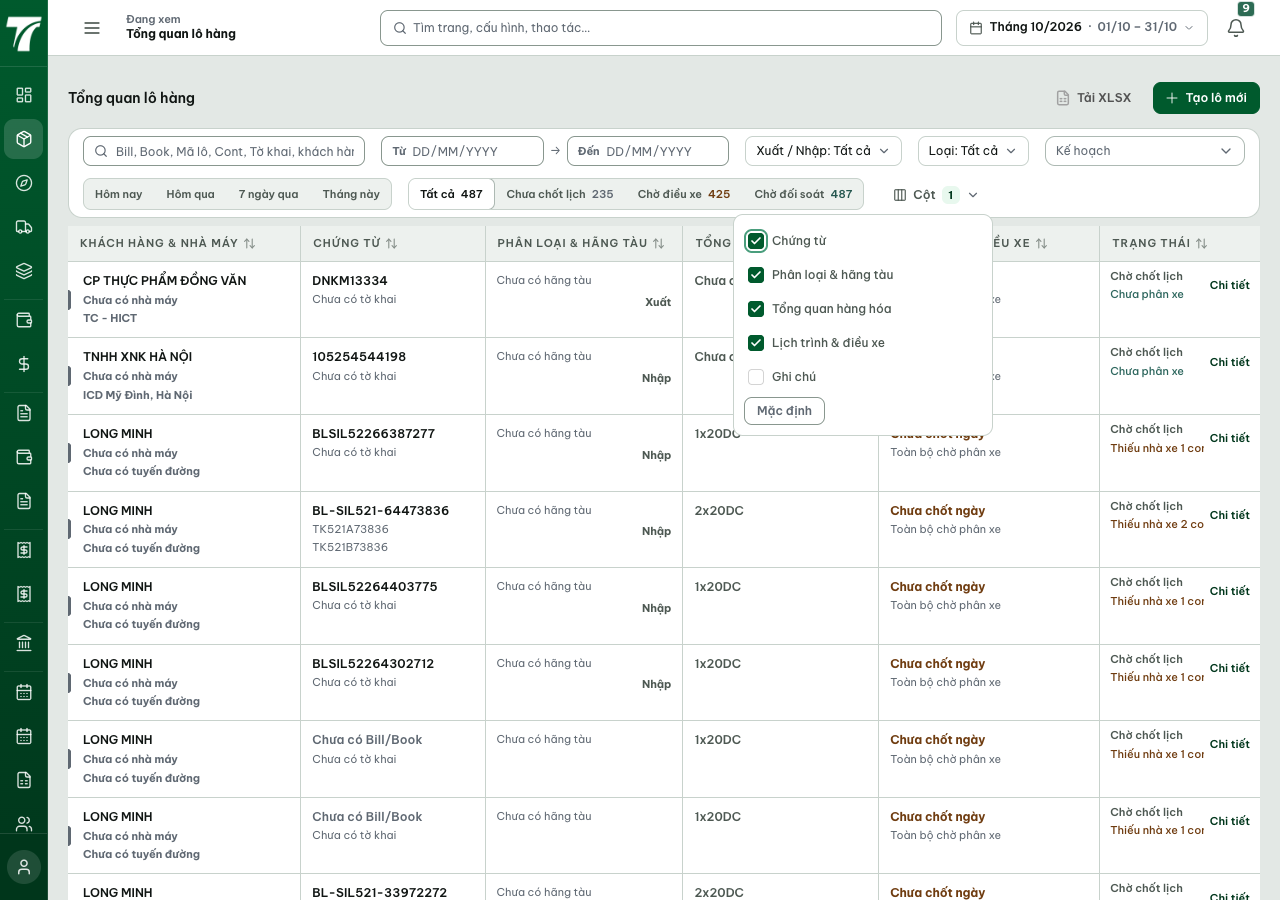
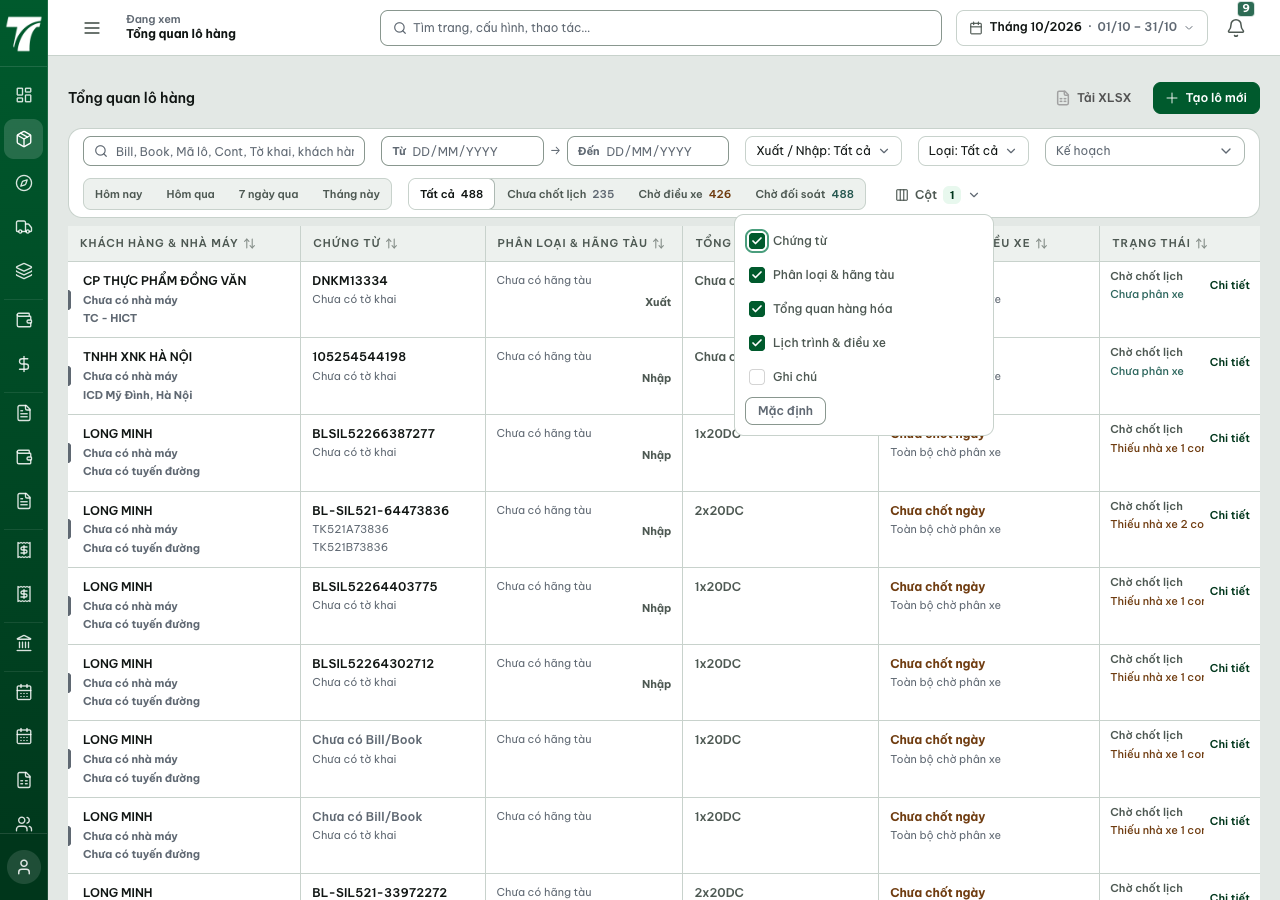
fix(a11y): SIL-561 (id 639) — nền THẬT SỰ inert khi popover-dialog mở (QA fail 29/10 'main không có aria-hidden, inert=false; chỉ vùng toast là inert'): (A) usePopoverDialog sweep rework — bỏ trigger-island exemption (chính nó giữ main sống vì trigger nằm trong main), mọi element ngoài panel path ma
QA: driver qa/scripts/ui-popover-dialog-verify-20261029.mjs (giamdoc, local :7202) 35/35 PASS — 4 popover (ColumnPicker/FilterDropdown/MonthPicker/UDRP) × aria-modal/focus-in-panel/main-inert/Escape-restores-trigger @1280/768/390; ảnh + log qa/2026-10-29_sil561_ui-*. Gates: frontend tsc -b exit 0; vitest scoped 133/133 (usePopoverDialog + layout/mobile-overlays + UDRP + ColumnPicker + FilterDropdown + FactoryDetailPopover) exit 0. Testplan case-2026-10-29-sil561-background-inert.

diff --git a/frontend/src/design-system/forms/UnifiedDateRangePicker.tsx b/frontend/src/design-system/forms/UnifiedDateRangePicker.tsx
@@ -1,8 +1,10 @@
 import { useEffect, useMemo, useRef, useState } from 'react';
+import { createPortal } from 'react-dom';
 import { Calendar, ChevronLeft, ChevronRight, X } from 'lucide-react';
 import { useClickOutside } from '../../hooks/useClickOutside';
 import { useFocusTrap } from '../../hooks/useFocusTrap';
 import { usePopoverDialog } from '../../hooks/usePopoverDialog';
+import { usePopoverPosition } from '../../hooks/usePopoverPosition';
 import type { DateRangeValue } from './DateRangeFields';
 import './UnifiedDateRangePicker.css';
 
@@ -144,13 +146,20 @@ export function UnifiedDateRangePicker({ id, value, onChange, ariaLabel, classNa
     // eslint-disable-next-line react-hooks/exhaustive-deps
   }, [open]);
 
-  useClickOutside(rootRef, () => setOpen(false), { escapeKey: true, enabled: open });
+  const triggerRef = useRef<HTMLButtonElement>(null);
+  // SIL-561 (29/10): the panel now rides a body portal (the house
+  // usePopoverPosition + useClickOutside + createPortal triple, like
+  // ColumnPicker) — an INLINE panel lives inside `main`, which can then never
+  // carry `inert` (QA fail: "main không có aria-hidden, inert=false").
+  // Outside-press semantics stay the old root-based ones: the trigger widget
+  // and the panel are the inside, everything else dismisses.
+  useClickOutside(popoverRef, () => setOpen(false), { escapeKey: true, enabled: open, additionalRefs: [triggerRef, rootRef] });
   useFocusTrap(popoverRef, open);
   // Modal dialog semantics (SIL-561): focus/Escape already worked — the
   // primitive adds aria-modal, the inert background and guaranteed focus
   // return to the trigger on every close path.
-  const triggerRef = useRef<HTMLButtonElement>(null);
   usePopoverDialog(popoverRef, triggerRef, open);
+  const popoverPosition = usePopoverPosition(popoverRef, triggerRef, open, 660, 360, 'start');
 
   const shiftAnchor = (months: number) => {
     setAnchor((v) => {
@@ -244,8 +253,15 @@ export function UnifiedDateRangePicker({ id, value, onChange, ariaLabel, classNa
         {triggerText ? <span className="udrp__value">{triggerText}</span> : <span className="udrp__placeholder">DD/MM/YYYY – DD/MM/YYYY</span>}
         <ChevronRight size={12} className="udrp__caret" aria-hidden="true" />
       </button>
-      {open && (
-        <div className="udrp__popover" role="dialog" aria-label={ariaLabel} ref={popoverRef}>
+      {open && typeof document !== 'undefined' && createPortal(
+        <div
+          className="udrp__popover"
+          role="dialog"
+          aria-label={ariaLabel}
+          ref={popoverRef}
+          data-positioned={popoverPosition ? 'true' : undefined}
+          style={{ top: popoverPosition?.top ?? 0, left: popoverPosition?.left ?? 0, maxHeight: popoverPosition?.maxHeight }}
+        >
           <div className="udrp__presets" role="group" aria-label="Khoảng nhanh">
             {UNIFIED_RANGE_PRESETS.map((preset) => (
               <button
@@ -281,7 +297,8 @@ export function UnifiedDateRangePicker({ id, value, onChange, ariaLabel, classNa
               {renderMonth(nextM0, nextY, monthTitle(nextM0, nextY))}
             </div>
           </div>
-        </div>
+        </div>,
+        document.body,
       )}
     </div>
   );

diff --git a/frontend/src/hooks/usePopoverDialog.ts b/frontend/src/hooks/usePopoverDialog.ts
@@ -122,28 +122,36 @@ export function usePopoverDialog(
       // Leg 1 — modal semantics ride the panel only while it is open.
       panel.setAttribute('aria-modal', 'true');
 
-      // Leg 3 — the rest of the page goes inert while the dialog is open.
-      // The sweep walks DOWN from <body>: a child that contains the panel (a
-      // portal target, or the app root hosting an unportaled picker) or the
-      // TRIGGER (the opener's own island — it stays clickable and is the
-      // focus-return target; a browser refuses to focus an inert element,
-      // which would break the Escape restore) is stepped into, so only the
-      // branches off that path are blocked — everything else loses pointer
-      // and keyboard reach. Portals appended later (a criterion's date
-      // picker) are never covered by the sweep and stay interactive.
+      // Leg 3 — EVERYTHING outside the panel goes inert while the dialog is
+      // open — the platform modal contract (`<dialog>.showModal()`, the
+      // shipmate accessibility reference's custom-overlay rule). The old
+      // sweep exempted the trigger's ancestor chain so Escape could restore
+      // focus to it; that kept `main` LIVE whenever the trigger lived inside
+      // it (QA fail 29/10: "main không có aria-hidden, inert=false; chỉ vùng
+      // toast là inert"). Now the background, its landmarks AND the opener's
+      // own chain all carry `inert`; a browser refuses to focus an inert
+      // element, so the close path UN-INERTS FIRST — this effect's cleanup
+      // runs before the focus-return effect's (React destroys effects in
+      // definition order) — and only then hands focus back to the trigger.
+      // Every excluded element gets the ATTRIBUTE itself (not just an inert
+      // ancestor): inheritance already covers behavior, the attribute covers
+      // the landmark probes (`main`, `header`, …) QA measures against.
+      // Nested portals appended later (a criterion's date picker) are never
+      // covered by the sweep and stay interactive.
       const previous = new Map<Element, boolean>();
-      const trigger = triggerRef.current;
+      const mark = (element: Element): void => {
+        previous.set(element, element.hasAttribute('inert'));
+        element.setAttribute('inert', '');
+      };
       const sweep = (parent: Element): void => {
         for (const child of Array.from(parent.children)) {
-          // The panel and the trigger element itself (with everything inside
-          // them) stay live; branches off their two paths are blocked.
-          if (child === panel || (trigger != null && (child === trigger || trigger.contains(child)))) continue;
-          if (child.contains(panel) || (trigger != null && child.contains(trigger))) {
+          if (child === panel) continue;
+          if (child.contains(panel)) {
             sweep(child);
             continue;
           }
-          previous.set(child, child.hasAttribute('inert'));
-          child.setAttribute('inert', '');
+          mark(child);
+          sweep(child);
         }
       };
       sweep(document.body);

diff --git a/frontend/src/hooks/usePopoverDialog.test.tsx b/frontend/src/hooks/usePopoverDialog.test.tsx
@@ -1,4 +1,5 @@
 import { useState, useRef } from 'react';
+import { createPortal } from 'react-dom';
 import { fireEvent, render, screen } from '@testing-library/react';
 import { describe, expect, it } from 'vitest';
 import { usePopoverDialog } from './usePopoverDialog';
@@ -40,6 +41,45 @@ describe('usePopoverDialog modal popover semantics', () => {
     expect(dialog.contains(document.activeElement)).toBe(true);
     // The background branch is inert while the dialog claims modal semantics.
     expect(backgroundButton.closest('#background')!.hasAttribute('inert')).toBe(true);
+  });
+
+  it('SIL-561 fail 29/10: EVERY background element carries inert — main and the opener chain included', () => {
+    function PortaledHost() {
+      const [open, setOpen] = useState(false);
+      const panelRef = useRef<HTMLDivElement>(null);
+      const triggerRef = useRef<HTMLButtonElement>(null);
+      usePopoverDialog(panelRef, triggerRef, open);
+      return (
+        <main>
+          <button ref={triggerRef} onClick={() => setOpen((v) => !v)}>Mở bộ lọc</button>
+          <div id="background"><button>Nút nền</button></div>
+          {open && createPortal(
+            <div ref={panelRef} role="dialog" aria-label="Bộ lọc">
+              <button onClick={() => setOpen(false)}>Áp dụng</button>
+            </div>,
+            document.body,
+          )}
+        </main>
+      );
+    }
+    render(<PortaledHost />);
+    const trigger = screen.getByRole('button', { name: 'Mở bộ lọc' });
+    fireEvent.click(trigger);
+
+    // QA's probe reads these exact elements: `main` carried neither inert nor
+    // aria-hidden while the dialog claimed modal semantics ("chỉ vùng toast
+    // là inert" — the old sweep exempted the opener's ancestor chain).
+    expect(document.querySelector('main')!.hasAttribute('inert')).toBe(true);
+    // Platform modal semantics inert the background INCLUDING the opener;
+    // the close path un-inerts first (this hook's effect order), then
+    // restores focus — a browser refuses to focus an inert element.
+    expect(trigger.hasAttribute('inert')).toBe(true);
+
+    fireEvent.click(screen.getByRole('button', { name: 'Áp dụng' }));
+
+    expect(document.querySelector('main')!.hasAttribute('inert')).toBe(false);
+    expect(trigger.hasAttribute('inert')).toBe(false);
+    expect(document.activeElement).toBe(trigger);
   });
 
   it('restores aria-modal + background and hands focus back to the trigger on close', () => {

diff --git a/frontend/src/components/layout/mobile-overlays.focus-return.test.tsx b/frontend/src/components/layout/mobile-overlays.focus-return.test.tsx
@@ -1,5 +1,5 @@
 import { useRef, useState } from 'react';
-import { fireEvent, render, screen } from '@testing-library/react';
+import { fireEvent, render, screen, waitFor } from '@testing-library/react';
 import { describe, expect, it, vi } from 'vitest';
 import { Role } from '@tingting/shared';
 
@@ -72,23 +72,26 @@ describe('mobile overlay focus return (SIL-573)', () => {
     expect(document.activeElement).toBe(trigger);
   });
 
-  it('returns focus to the month trigger after Escape', () => {
+  it('returns focus to the month trigger after Escape (SIL-561: one frame — the inert release lands first)', async () => {
     renderPicker();
     const trigger = screen.getByRole('button', { name: /Chọn tháng/ });
     fireEvent.click(trigger);
     expect(screen.getByRole('dialog', { name: 'Chọn tháng' })).toBeTruthy();
     fireEvent.keyDown(document, { key: 'Escape' });
     expect(screen.queryByRole('dialog', { name: 'Chọn tháng' })).toBeNull();
-    expect(document.activeElement).toBe(trigger);
+    // The restore defers past the close commit: the background un-inerts
+    // there, and a browser refuses to focus an inert trigger (the old
+    // synchronous shape dropped the keyboard to <body> — QA-measured).
+    await waitFor(() => expect(document.activeElement).toBe(trigger));
   });
 
-  it('returns focus to the month trigger after choosing a month', () => {
+  it('returns focus to the month trigger after choosing a month (SIL-561: one frame)', async () => {
     renderPicker();
     const trigger = screen.getByRole('button', { name: /Chọn tháng/ });
     fireEvent.click(trigger);
     fireEvent.click(screen.getByRole('button', { name: /T5\s*Tháng 5/ }));
     expect(screen.queryByRole('dialog', { name: 'Chọn tháng' })).toBeNull();
-    expect(document.activeElement).toBe(trigger);
+    await waitFor(() => expect(document.activeElement).toBe(trigger));
   });
 
   it('keeps focus away from the trigger when an outside press closes the picker', () => {

diff --git a/frontend/src/components/layout/Topbar.tsx b/frontend/src/components/layout/Topbar.tsx
@@ -33,12 +33,21 @@ function MonthNavigator() {
   const pickerRef = useRef<HTMLDivElement>(null);
   const triggerRef = useRef<HTMLButtonElement>(null);
 
+  // SIL-561 (29/10): every close that restores focus DEFERS one frame — the
+  // background sweep marks the trigger inert while open and un-inerts in the
+  // close commit, so a synchronous trigger.focus() is refused by the browser
+  // and the keyboard landed on <body> (QA-measured on the Escape path).
+  const closeAndRestore = () => {
+    setOpen(false);
+    requestAnimationFrame(() => restoreFocusTo(triggerRef.current));
+  };
+
   // Focus return (SIL-573): Escape and explicit close actions hand focus back
   // to the month trigger; an outside press leaves focus where the user clicked.
   useClickOutside(containerRef, () => setOpen(false), {
     escapeKey: true,
     enabled: open,
-    onEscape: () => { setOpen(false); restoreFocusTo(triggerRef.current); },
+    onEscape: closeAndRestore,
   });
   useFocusTrap(pickerRef, open);
   // Modal dialog semantics (SIL-561): the picker already trapped focus and
@@ -124,8 +133,7 @@ function MonthNavigator() {
                   ].filter(Boolean).join(' ')}
                   onClick={() => {
                     setMonthYear(m, pickerYear);
-                    setOpen(false);
-                    restoreFocusTo(triggerRef.current);
+                    closeAndRestore();
                   }}
                 >
                   <span className="month-picker__cell-code">{short}</span>
@@ -141,8 +149,7 @@ function MonthNavigator() {
               onClick={() => {
                 const n = new Date();
                 setMonthYear(n.getMonth() + 1, n.getFullYear());
-                setOpen(false);
-                restoreFocusTo(triggerRef.current);
+                closeAndRestore();
               }}
             >
               Hôm nay

diff --git a/frontend/src/design-system/forms/UnifiedDateRangePicker.css b/frontend/src/design-system/forms/UnifiedDateRangePicker.css
@@ -60,10 +60,13 @@
 /* ── Popover: preset rail (left) + dual-month calendar (right) ──────────── */
 
 .udrp__popover {
-  position: absolute;
-  top: calc(100% + 6px);
-  left: 0;
+  /* SIL-561 (29/10): body portal (ColumnPicker triple) — fixed at the
+     usePopoverPosition coords instead of absolute under the trigger, so the
+     inline panel no longer keeps `main` out of the background-inert sweep.
+     Hidden until positioned (a 0×0 trigger rect reports NO position). */
+  position: fixed;
   z-index: var(--z-nested-popover, 410);
+  visibility: hidden;
   display: flex;
   gap: 8px;
   padding: 8px;
@@ -71,6 +74,9 @@
   border-radius: var(--r-sm);
   background: var(--surface);
   box-shadow: var(--shadow-md);
+}
+.udrp__popover[data-positioned='true'] {
+  visibility: visible;
 }
 
 .udrp__presets {
@@ -256,7 +262,6 @@
   }
 
   .udrp__popover {
-    left: 0;
     max-width: calc(100vw - 24px);
     flex-direction: column;
   }

diff --git a/testplan/cases/case-2026-10-29-sil561-background-inert.md b/testplan/cases/case-2026-10-29-sil561-background-inert.md
@@ -1,0 +1,26 @@
+# case-2026-10-29-sil561 — Popover dialog: nền phải inert khi mở (residual QA fail 29/10)
+
+- Ticket: SIL-561 (board id 639), lane `fix-sil-a11y2`.
+- Repro (QA Glint fail 29/10, build 28c3a120): mở ColumnPicker/FilterDropdown/
+  MonthPicker/UDRP → "nội dung nền không inert — main không có aria-hidden,
+  inert=false; chỉ vùng toast (role=log) là inert". Mong đợi: nền bị inert.
+- Root cause 1: sweep của usePopoverDialog exempt trigger-ancestor chain
+  ("island sống") → `main` (cha của trigger) KHÔNG BAO GIỜ inert.
+- Root cause 2: UDRP panel render INLINE trong main → main không thể inert
+  (inert là hereditary — panel con sẽ chết theo).
+- Root cause 3 (nảy sinh khi fix): restore focus ĐỒNG BỘ trên trigger đang
+  inert bị browser từ chối → keyboard rơi body (MonthPicker Escape).
+- Expected: khi popover-dialog mở, nền (kể cả main + opener chain) mang
+  attribute `inert`; panel aria-modal + focus trong panel; Escape trả focus
+  về trigger SAU khi un-inert (1 frame).
+- Fix: (1) sweep rework — mọi element ngoài panel path mang inert attribute
+  (attribute trên từng element để landmark probe thấy), un-inert trước restore
+  (effect cleanup order); (2) UDRP portal về body theo house triple
+  usePopoverPosition + useClickOutside + createPortal (như ColumnPicker);
+  (3) MonthPicker closeAndRestore defer 1 frame (Escape + pick + Hôm nay).
+- Pin: `frontend/src/hooks/usePopoverDialog.test.tsx` case mới (main + trigger
+  inert/release); `mobile-overlays.focus-return.test.tsx` 2 case đổi sang
+  waitFor deferred restore.
+- Evidence: `qa/2026-10-29_sil561_ui-driver.log` (35/35 — 4 popover × aria-
+  modal/focus-in/main-inert/Escape-restore @1280/768/390),
+  `qa/2026-10-29_sil561_tsc.log`, `qa/2026-10-29_sil561_vitest.log`.
